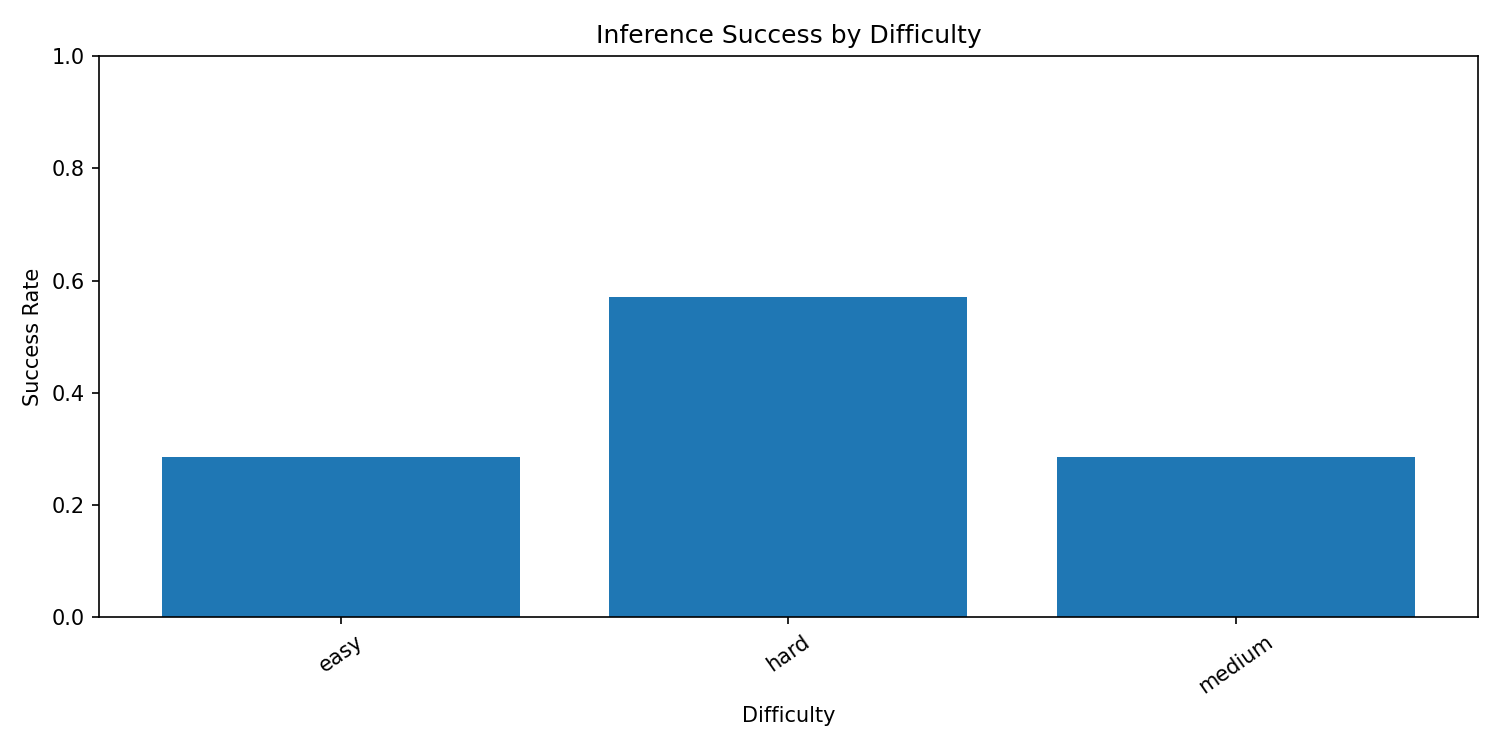
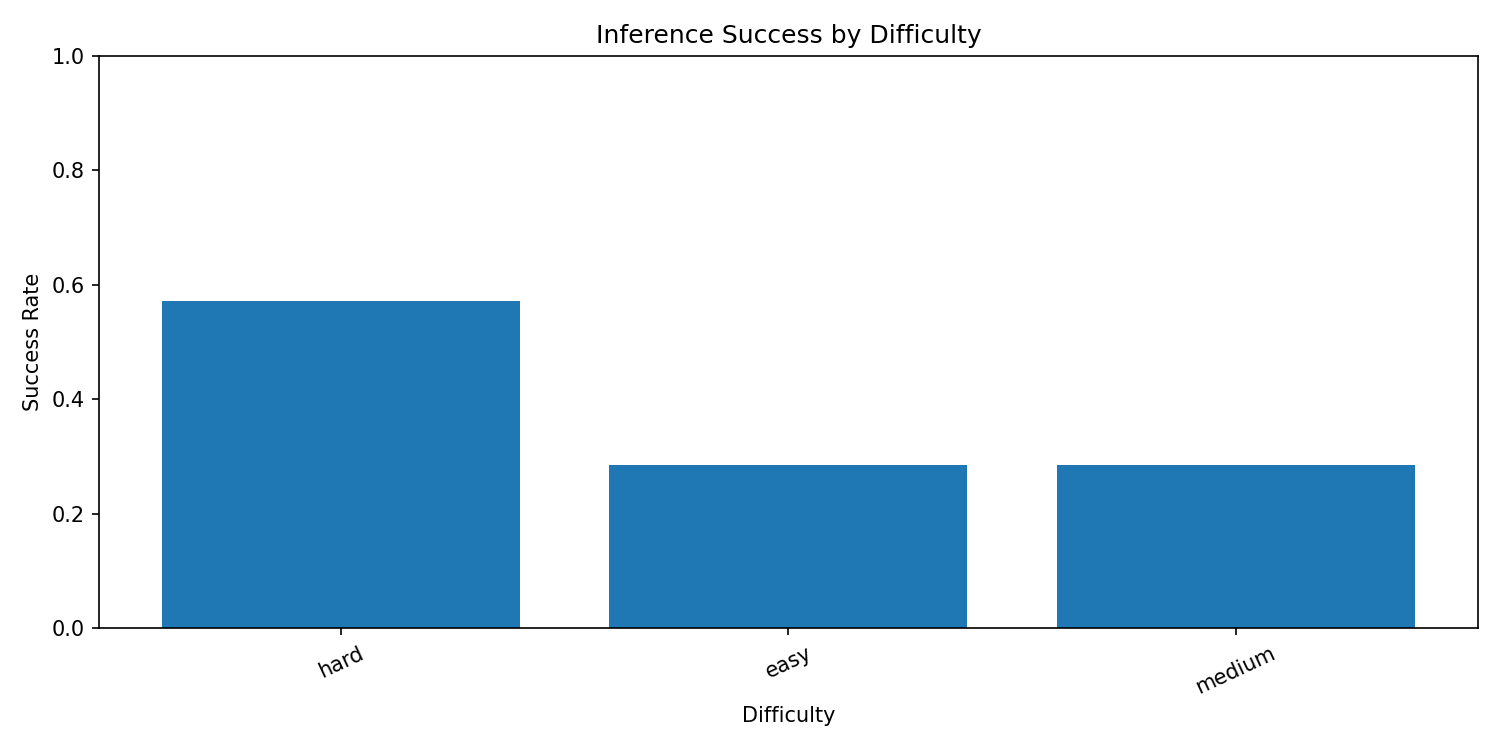
fix:idc#691

diff --git a/grpo/train.py b/grpo/train.py
@@ -281,6 +281,19 @@ def is_grpo_sequence_mode(config: dict | None = None) -> bool:
     return bool(config.get("grpo", {}).get("sequence_mode", False))
 
 
+def should_run_grpo_baseline_phase(phase: str) -> bool:
+    """Whether to run an in-memory GRPO pre/post baseline."""
+    if phase not in {"pre", "post"}:
+        raise ValueError(f"phase must be 'pre' or 'post', got {phase!r}")
+    if _truthy_env("GRPO_SKIP_BASELINE"):
+        return False
+    if phase == "pre" and _truthy_env("GRPO_SKIP_PRE_BASELINE"):
+        return False
+    if phase == "post" and _truthy_env("GRPO_SKIP_POST_BASELINE"):
+        return False
+    return True
+
+
 def eval_action_sequence(
     *,
     env_client,
@@ -901,19 +914,22 @@ def run_grpo_training(
     print(f"[grpo] Starting GRPO training ({len(train_prompts)} prompts, "
           f"{num_generations} generations/group, {num_train_epochs} epochs)")
 
-    try:
-        run_grpo_baseline(
-            namespace=namespace,
-            phase="pre",
-            env_client=env_client,
-            model=model,
-            tokenizer=tokenizer,
-            gnn_model=gnn_model,
-            normalizer=normalizer,
-            config_path=config_path,
-        )
-    except Exception as exc:
-        logger.warning("Pre-GRPO baseline failed: %s", exc)
+    if should_run_grpo_baseline_phase("pre"):
+        try:
+            run_grpo_baseline(
+                namespace=namespace,
+                phase="pre",
+                env_client=env_client,
+                model=model,
+                tokenizer=tokenizer,
+                gnn_model=gnn_model,
+                normalizer=normalizer,
+                config_path=config_path,
+            )
+        except Exception as exc:
+            logger.warning("Pre-GRPO baseline failed: %s", exc)
+    else:
+        print("[grpo] Skipping pre-GRPO baseline (GRPO_SKIP_PRE_BASELINE/GRPO_SKIP_BASELINE)")
 
     if resume_from and resume_from.exists():
         print(f"[grpo] Resuming from checkpoint: {resume_from}")
@@ -924,19 +940,22 @@ def run_grpo_training(
         trainer.train()
     print("[grpo] trainer.train() returned")
 
-    try:
-        run_grpo_baseline(
-            namespace=namespace,
-            phase="post",
-            env_client=env_client,
-            model=model,
-            tokenizer=tokenizer,
-            gnn_model=gnn_model,
-            normalizer=normalizer,
-            config_path=config_path,
-        )
-    except Exception as exc:
-        logger.warning("Post-GRPO baseline failed: %s", exc)
+    if should_run_grpo_baseline_phase("post"):
+        try:
+            run_grpo_baseline(
+                namespace=namespace,
+                phase="post",
+                env_client=env_client,
+                model=model,
+                tokenizer=tokenizer,
+                gnn_model=gnn_model,
+                normalizer=normalizer,
+                config_path=config_path,
+            )
+        except Exception as exc:
+            logger.warning("Post-GRPO baseline failed: %s", exc)
+    else:
+        print("[grpo] Skipping post-GRPO baseline (GRPO_SKIP_POST_BASELINE/GRPO_SKIP_BASELINE)")
 
     # --- Save final model ---
     final_dir = output_dir / "final"

diff --git a/analysis/plots.py b/analysis/plots.py
@@ -88,20 +88,53 @@ def _bar_plot(
     ylabel: str,
     ylim: tuple[float, float] | None = None,
 ) -> Path:
-    labels = list(values.keys()) or ["none"]
-    counts = [values[key] for key in values] or [0]
-    fig, ax = plt.subplots(figsize=(10, 5))
-    ax.bar(labels, counts)
+    items = sorted(values.items(), key=lambda item: item[1], reverse=True) if values else [("none", 0)]
+    labels = [_wrap_label(str(label)) for label, _ in items]
+    counts = [count for _, count in items]
+    crowded = len(labels) > 10 or any(len(str(label)) > 18 for label, _ in items)
+
+    if crowded:
+        height = max(6.0, min(18.0, 0.34 * len(labels) + 2.0))
+        fig, ax = plt.subplots(figsize=(11, height))
+        y_values = list(range(len(labels)))
+        ax.barh(y_values, counts)
+        ax.set_yticks(y_values)
+        ax.set_yticklabels(labels, fontsize=8)
+        ax.invert_yaxis()
+        ax.set_xlabel(ylabel)
+        ax.set_ylabel(xlabel)
+    else:
+        fig, ax = plt.subplots(figsize=(10, 5))
+        ax.bar(labels, counts)
+        ax.set_xlabel(xlabel)
+        ax.set_ylabel(ylabel)
+        ax.tick_params(axis="x", rotation=25)
     ax.set_title(title)
-    ax.set_xlabel(xlabel)
-    ax.set_ylabel(ylabel)
     if ylim is not None:
         ax.set_ylim(*ylim)
-    ax.tick_params(axis="x", rotation=35)
     fig.tight_layout()
     fig.savefig(path, dpi=150)
     plt.close(fig)
     return path
+
+
+def _wrap_label(label: str, width: int = 24) -> str:
+    if len(label) <= width:
+        return label
+    parts = label.replace("-", "_").split("_")
+    lines: list[str] = []
+    current = ""
+    for part in parts:
+        candidate = part if not current else f"{current}_{part}"
+        if len(candidate) <= width:
+            current = candidate
+        else:
+            if current:
+                lines.append(current)
+            current = part
+    if current:
+        lines.append(current)
+    return "\n".join(lines)
 
 
 def _grouped_count_plot(path: Path, title: str, values: dict) -> Path:

diff --git a/grpo/rollout.py b/grpo/rollout.py
@@ -338,10 +338,11 @@ def _format_rollout_prompt(observation_dict: dict, gnn_blurb: str | None) -> str
     parts.append("")
     sequence_mode = os.environ.get("GRPO_SEQUENCE_MODE", "").strip().lower() in {"1", "true", "yes", "on"}
     if sequence_mode:
+        max_sequence_actions = os.environ.get("GRPO_MAX_SEQUENCE_ACTIONS", "5").strip() or "5"
         parts.append(
             "Return exactly one JSON object and nothing else. Do not include prose, "
             "Markdown, examples, or code fences. The JSON must contain an 'actions' "
-            "array with 2-5 action objects. Each action must have 'action_type', "
+            f"array with 2-{max_sequence_actions} action objects. Each action must have 'action_type', "
             "'target_service' when applicable, and optional 'parameters'. Prefer a "
             "short incident-response sequence: investigate, remediate, then "
             "declare_resolved only after remediation. Use only these common "

diff --git a/tests/test_grpo_baseline_hook.py b/tests/test_grpo_baseline_hook.py
@@ -44,3 +44,21 @@ def test_unpack_in_memory_components_accepts_grpo_policy_tuple():
     assert baseline._unpack_in_memory_components(
         (model, tokenizer, gnn_model, normalizer)
     ) == (model, tokenizer, gnn_model, normalizer)
+
+
+def test_grpo_pre_baseline_can_be_skipped(monkeypatch):
+    from grpo.train import should_run_grpo_baseline_phase
+
+    monkeypatch.setenv("GRPO_SKIP_PRE_BASELINE", "1")
+
+    assert should_run_grpo_baseline_phase("pre") is False
+    assert should_run_grpo_baseline_phase("post") is True
+
+
+def test_grpo_skip_baseline_disables_both_phases(monkeypatch):
+    from grpo.train import should_run_grpo_baseline_phase
+
+    monkeypatch.setenv("GRPO_SKIP_BASELINE", "true")
+
+    assert should_run_grpo_baseline_phase("pre") is False
+    assert should_run_grpo_baseline_phase("post") is False

diff --git a/tests/test_analysis_report.py b/tests/test_analysis_report.py
@@ -89,6 +89,24 @@ def test_generate_plots_writes_png_files(tmp_path: Path) -> None:
     assert all(path.exists() and path.stat().st_size > 0 for path in plot_paths)
 
 
+def test_bar_plot_uses_tall_layout_for_many_long_labels(tmp_path: Path) -> None:
+    import matplotlib.image as mpimg
+
+    from analysis.plots import _bar_plot
+
+    path = _bar_plot(
+        tmp_path / "many_labels.png",
+        "Many Long Labels",
+        {f"very_long_action_name_{idx}": idx for idx in range(30)},
+        "Action",
+        "Count",
+    )
+
+    image = mpimg.imread(path)
+
+    assert image.shape[0] > image.shape[1]
+
+
 def test_analysis_cli_writes_summary_report_and_plots(tmp_path: Path, monkeypatch) -> None:
     from analysis.analyze import main
 

diff --git a/tests/test_grpo_sequence_mode.py b/tests/test_grpo_sequence_mode.py
@@ -36,6 +36,7 @@ def test_format_rollout_prompt_sequence_mode_mentions_actions_array(monkeypatch)
     from grpo.rollout import _format_rollout_prompt
 
     monkeypatch.setenv("GRPO_SEQUENCE_MODE", "1")
+    monkeypatch.setenv("GRPO_MAX_SEQUENCE_ACTIONS", "10")
 
     prompt = _format_rollout_prompt(
         {"service_metrics": {"auth-service": {"status": "critical"}}},
@@ -43,7 +44,7 @@ def test_format_rollout_prompt_sequence_mode_mentions_actions_array(monkeypatch)
     )
 
     assert '"actions"' in prompt
-    assert "2-5 action objects" in prompt
+    assert "2-10 action objects" in prompt
 
 
 def test_eval_action_sequence_uses_terminal_episode_score() -> None:

diff --git a/analysis_runs/smoke/report.md b/analysis_runs/smoke/report.md
@@ -1,0 +1,28 @@
+# Firewatch Analysis Report
+
+## Summary
+- SFT examples analyzed: 1500
+- Inference episodes analyzed: 21
+- Inference steps analyzed: 573
+- GRPO reward evaluations analyzed: 0
+- GRPO mean immediate reward: 0.000
+- GRPO positive reward rate: 0.00
+- Baseline records analyzed: 0
+
+## GRPO Action Mix
+- No GRPO action records found.
+
+## Caveats
+- GRPO rewards are single-step evaluations today, not full episode returns.
+- Baseline and inference success metrics should not be compared directly to GRPO reward-eval rewards.
+
+## Plots
+- [plots/sft_action_distribution.png](plots/sft_action_distribution.png)
+- [plots/sft_task_fault_coverage.png](plots/sft_task_fault_coverage.png)
+- [plots/inference_success_by_difficulty.png](plots/inference_success_by_difficulty.png)
+- [plots/decision_source_mix.png](plots/decision_source_mix.png)
+- [plots/grpo_reward_eval.png](plots/grpo_reward_eval.png)
+- [plots/grpo_action_distribution.png](plots/grpo_action_distribution.png)
+- [plots/grpo_reward_by_action.png](plots/grpo_reward_by_action.png)
+- [plots/baseline_progression.png](plots/baseline_progression.png)
+- [plots/grpo_pre_post_delta.png](plots/grpo_pre_post_delta.png)
